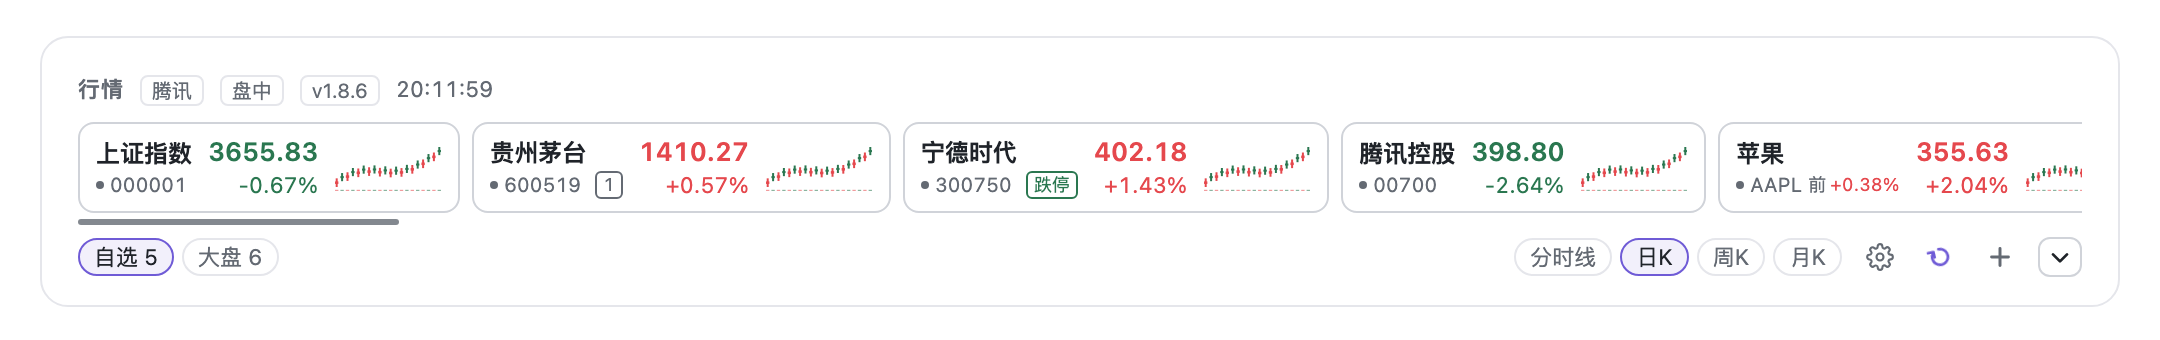
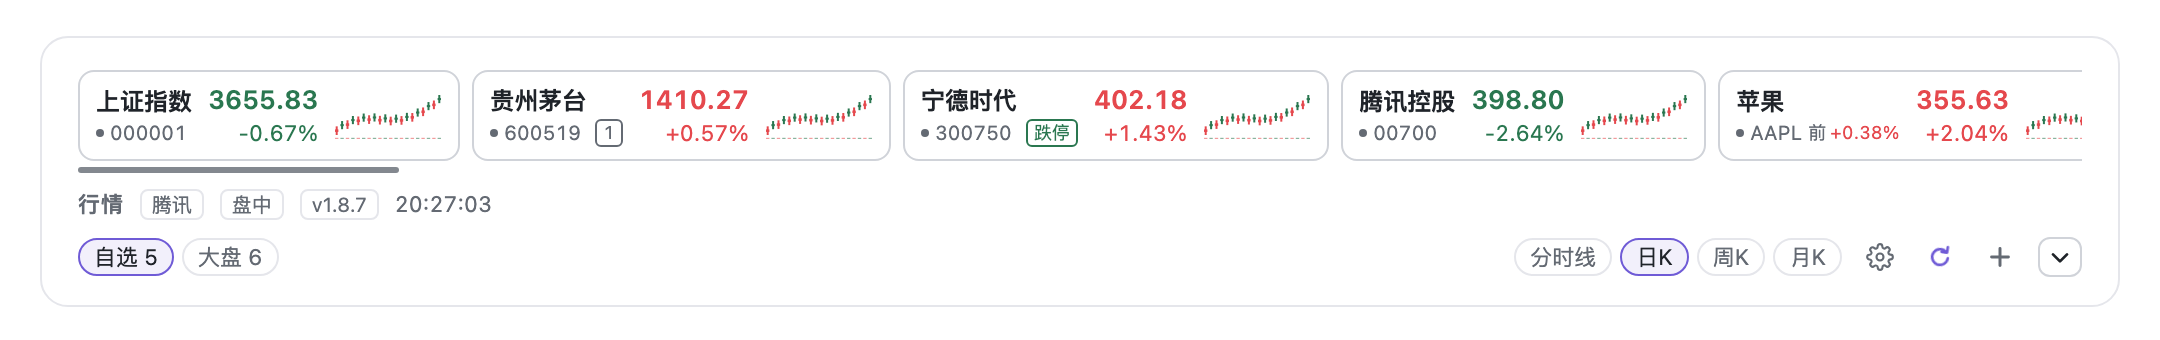
style(client): move the status row below the cards too (1.8.7)
The title/source/session/build/time row still sat above the quotes. It now
follows the cards, above the groups/actions footer, so the strip opens with the
quotes and every control lives in the bottom area. Screenshots refreshed. 81
tests.

Local commit only; not pushed.

Changed region(s): [[0.031, 0.2059, 0.9616, 0.6765], [0.8685, 0.2647, 0.9306, 0.3235], [0.7755, 0.2647, 0.8375, 0.3235]]

diff --git a/client.js b/client.js
@@ -16,7 +16,7 @@ window.__ModuleLoader__.load({
     const { useCallback, useEffect, useMemo, useRef, useState } = React
 
     const NS = 'stockTicker'
-    const BUILD = 'v1.8.6'
+    const BUILD = 'v1.8.7'
     const ENDPOINT = '/dsh-stock-ticker'
     const COLLAPSE_KEY = 'dsh-stock-ticker:collapsed'
     const STYLE_ID = 'stock-ticker'
@@ -3685,6 +3685,25 @@ window.__ModuleLoader__.load({
           'data-variant': variant,
         },
         h('div', { className: 'dshst-live', 'aria-live': 'polite', role: 'status' }, notice || (error && !data ? error : '')),
+        toast.length > 0
+          ? h(
+              'div',
+              { className: 'dshst-toast', role: 'alert' },
+              ...toast.map((entry) =>
+                h(
+                  'span',
+                  { key: entry.id },
+                  t('alertHit')
+                    .replace('{name}', entry.name ?? entry.symbol)
+                    .replace('{op}', entry.op === 'above' ? t('alertAbove') : t('alertBelow'))
+                    .replace('{price}', formatPrice(entry.price)),
+                ),
+              ),
+              h('button', { type: 'button', className: 'dshst-link', onClick: () => acknowledge(toast) }, t('alertAck')),
+              h('button', { type: 'button', className: 'dshst-link', onClick: () => setToast([]) }, t('dismiss')),
+            )
+          : null,
+        variant === 'dock' && collapsed ? null : body,
         h(
           'div',
           { className: 'dshst-head' },
@@ -3713,25 +3732,6 @@ window.__ModuleLoader__.load({
             notice ? h('span', { className: 'dshst-meta dshst-notice' }, notice) : null,
           ),
         ),
-        toast.length > 0
-          ? h(
-              'div',
-              { className: 'dshst-toast', role: 'alert' },
-              ...toast.map((entry) =>
-                h(
-                  'span',
-                  { key: entry.id },
-                  t('alertHit')
-                    .replace('{name}', entry.name ?? entry.symbol)
-                    .replace('{op}', entry.op === 'above' ? t('alertAbove') : t('alertBelow'))
-                    .replace('{price}', formatPrice(entry.price)),
-                ),
-              ),
-              h('button', { type: 'button', className: 'dshst-link', onClick: () => acknowledge(toast) }, t('alertAck')),
-              h('button', { type: 'button', className: 'dshst-link', onClick: () => setToast([]) }, t('dismiss')),
-            )
-          : null,
-        variant === 'dock' && collapsed ? null : body,
         h(
           'div',
           { className: 'dshst-foot' },

diff --git a/CHANGELOG.md b/CHANGELOG.md
@@ -478,3 +478,10 @@ Settings discoverability and the options the strip was missing.
   header icons pinned to the right. Switching to a group with a different width
   now only changes the left part of the footer; the action buttons stay put.
 - Screenshots refreshed. 81 tests.
+
+## 1.8.7 — 2026-11-13
+
+- Moved the title/source/session/build/time row below the cards as well. The
+  strip now opens with the quote cards; the status row sits under them and above
+  the groups/actions footer, so everything except the quotes is in the fixed
+  control area at the bottom. Screenshots refreshed. 81 tests.

diff --git a/README.md b/README.md
@@ -2,7 +2,7 @@
 
 **中文** · [English](README.en.md)
 
-![version](https://img.shields.io/badge/version-1.8.6-blue)
+![version](https://img.shields.io/badge/version-1.8.7-blue)
 ![license](https://img.shields.io/badge/license-MIT-green)
 ![dsh](https://img.shields.io/badge/DSH-0.2.x-6f5bd6)
 ![data](https://img.shields.io/badge/data-Tencent%20%7C%20Sina%20%7C%20Eastmoney-orange)

diff --git a/README.en.md b/README.en.md
@@ -2,7 +2,7 @@
 
 [中文](README.md) · **English**
 
-![version](https://img.shields.io/badge/version-1.8.6-blue)
+![version](https://img.shields.io/badge/version-1.8.7-blue)
 ![license](https://img.shields.io/badge/license-MIT-green)
 ![dsh](https://img.shields.io/badge/DSH-0.2.x-6f5bd6)
 ![data](https://img.shields.io/badge/data-Tencent%20%7C%20Sina%20%7C%20Eastmoney-orange)
